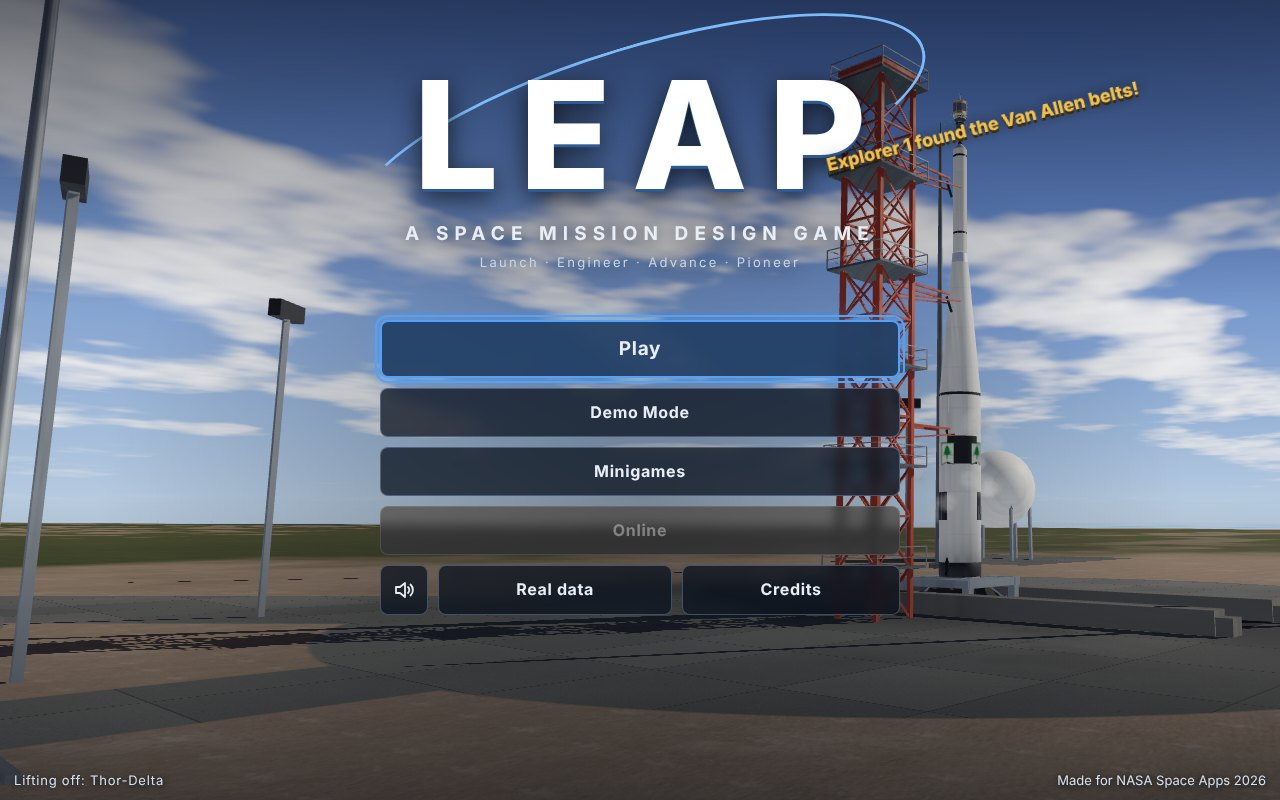
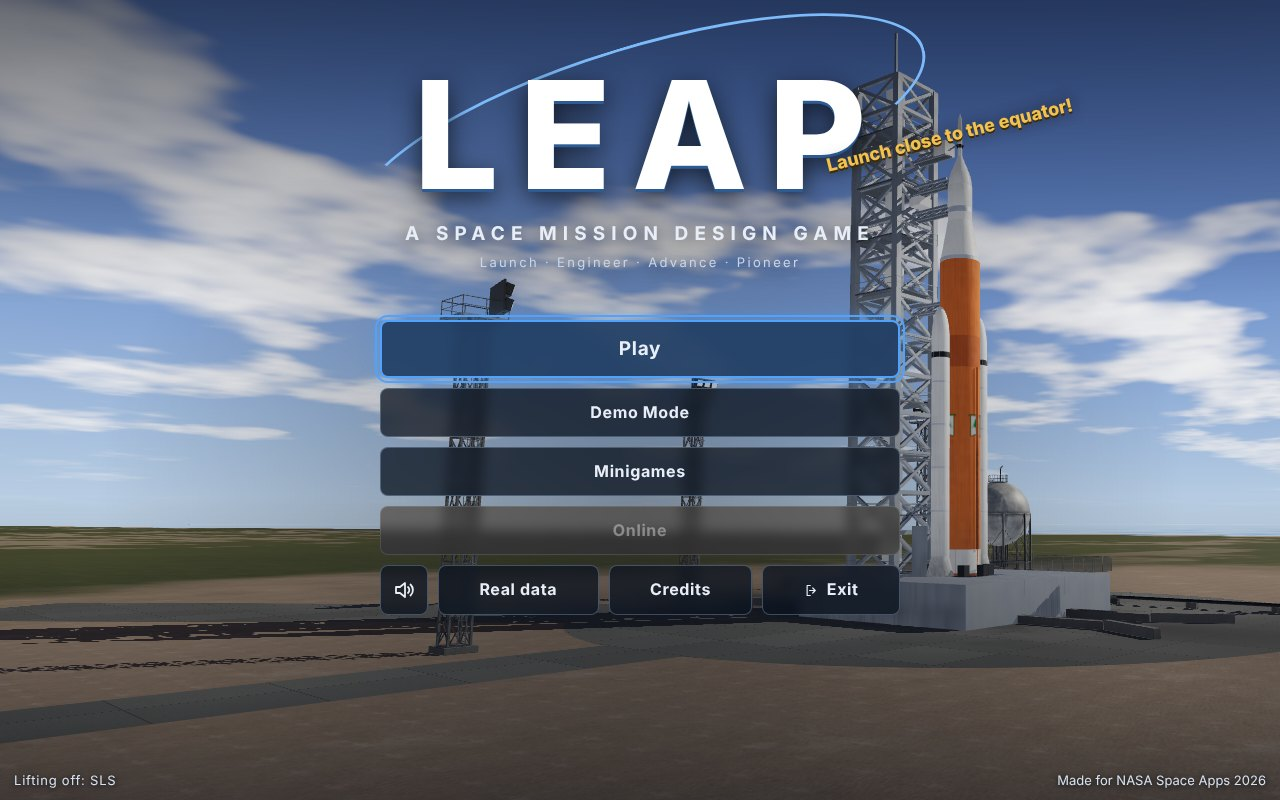
Exit button on the main menu; docs made consistent with the game
Exit opens a sheet, then asks the browser to close the tab. When the
browser keeps the tab (the usual case), the sheet says the Companies are
saved and how to stop the launcher. Checked at 1280x800 and 1024x768.

Docs: GDD (Eras 3 and Artemis, Demo Mode's four Eras, Explorer and
Mission Director names, Online switched off, save v21, Exit), submission
text, Supabase and art READMEs, AGENTS.md ticket count, README terms and
title screenshot.

Claude-Session: https://claude.ai/code/session_018cqh2fYR8rZjra5vVvQvDZ

diff --git a/src/ui/mainMenu.ts b/src/ui/mainMenu.ts
@@ -105,7 +105,7 @@ export function showMainMenu(
     b.textContent = text;
     return b;
   };
-  const iconButton = (label: string, name: 'sound') => {
+  const iconButton = (label: string, name: 'sound' | 'exit') => {
     const b = button('', 'menu-button menu-icon');
     b.setAttribute('aria-label', label);
     b.title = label;
@@ -124,9 +124,12 @@ export function showMainMenu(
   const dataButton = button(t('data.heading'));
   const creditsButton = button(t('credits.heading'));
   const soundButton = iconButton(t('sound.heading'), 'sound');
+  const exitButton = button(t('mainMenu.exit'));
+  exitButton.prepend(icon('exit'));
+  exitButton.classList.add('main-menu-exit');
   const row = document.createElement('div');
   row.className = 'main-menu-row';
-  row.append(soundButton, dataButton, creditsButton);
+  row.append(soundButton, dataButton, creditsButton, exitButton);
   actions.append(play, demo, minigames, online, row);
 
   // Demo picker, Companies, Credits, Music & Sounds and Real data open in one sheet in place of the buttons.
@@ -186,6 +189,14 @@ export function showMainMenu(
   const sound = sheet(t('sound.heading'), makeAudioControls(), titleMusic(), backButton());
   sound.classList.add('sound-view');
   const data = sheet(t('data.heading'), makeDataCredits(), backButton());
+  // Exit: browsers only let a page close a tab a script opened, so this sheet usually stays and says how to leave.
+  const exitText = (key: StringKey) => {
+    const p = document.createElement('p');
+    p.textContent = t(key);
+    return p;
+  };
+  const exitSheet = sheet(t('exit.heading'), exitText('exit.saved'), exitText('exit.tab'), exitText('exit.window'), backButton());
+  exitSheet.classList.add('exit-view');
   // Opened here already: this sheet is only for the list.
   data.querySelector('details')?.setAttribute('open', '');
 
@@ -287,7 +298,7 @@ export function showMainMenu(
     rows.find((r) => r.entry === selected)?.item.focus();
   });
 
-  const sheets = [picker, minigamesSheet, companies, credits, sound, data];
+  const sheets = [picker, minigamesSheet, companies, credits, sound, data, exitSheet];
 
   // A sheet replaces the buttons; Back or Esc returns to the button that opened it.
   let opener: HTMLButtonElement | null = null;
@@ -310,6 +321,11 @@ export function showMainMenu(
   creditsButton.addEventListener('click', () => open(credits, creditsButton));
   soundButton.addEventListener('click', () => open(sound, soundButton));
   dataButton.addEventListener('click', () => open(data, dataButton));
+  // The sheet opens first: if the browser lets the page close its tab, the tab goes; if not, the sheet says how to leave.
+  exitButton.addEventListener('click', () => {
+    open(exitSheet, exitButton);
+    window.close();
+  });
   // Esc first closes the delete question, then the sheet.
   const cancelDelete = () => { if (confirm.hidden) return false; no.click(); return true; };
 

diff --git a/src/style.css b/src/style.css
@@ -5137,3 +5137,7 @@ body.mode-explorer .report .report-anomaly p,
 body.mode-explorer .report .report-real p { font-size: 18px; }
 body.mode-explorer .report .report-reward { margin: 4px 0 0; font-size: 24px; font-weight: 700; text-align: center; color: var(--accent); }
 body.mode-explorer .report .report-outcome:not(.ok) ~ .report-reward { color: var(--text); font-size: 20px; font-weight: 600; }
+
+/* Main menu: Exit at the end of the bottom row, with its door-and-arrow icon; the sheet that says how to leave. */
+.main-menu-row .main-menu-exit { display: inline-flex; align-items: center; justify-content: center; gap: 8px; }
+.exit-view p { margin: 0 0 12px; line-height: 1.5; }

diff --git a/src/strings.ts b/src/strings.ts
@@ -18,6 +18,11 @@ export const STRINGS = {
   'mainMenu.back': 'Back',
   'mainMenu.rocket': 'Lifting off: {rocket}',
   'mainMenu.play': 'Play',
+  'mainMenu.exit': 'Exit',
+  'exit.heading': 'Exit LEAP',
+  'exit.saved': 'Thanks for playing! Your Companies are saved in this browser, ready for next time.',
+  'exit.tab': 'You can close this tab now.',
+  'exit.window': 'Started LEAP with LEAP.bat, LEAP.command or LEAP.sh? Close the window that opened too. That stops LEAP.',
   'companies.heading': 'Your Companies',
   'companies.list': 'Saved Companies',
   'companies.line': '{mode} · {difficulty} · {date}',

diff --git a/src/ui/icons.ts b/src/ui/icons.ts
@@ -7,6 +7,7 @@ const PATHS = {
   space: 'M12 9a3 3 0 1 0 0 6a3 3 0 1 0 0-6 M4.5 17.5c-2-2 1.5-7.5 6.5-11.5s9-4 10-2.5-1.5 7-6.5 11-8.5 5-10 3z',
   archive: 'M4 5h6a2 2 0 0 1 2 2v13a2 2 0 0 0-2-2H4z M20 5h-6a2 2 0 0 0-2 2v13a2 2 0 0 1 2-2h6z',
   track: 'M12 3a9 9 0 1 0 0 18a9 9 0 1 0 0-18 M12 7v5l3 2',
+  exit: 'M10 4H5v16h5 M14 8l4 4-4 4 M18 12H9',
   rocket: 'M12 2c3 3 4 7 3 12h-6c-1-5 0-9 3-12z M9 14l-3 4h4 M15 14l3 4h-4 M12 8a1 1 0 1 0 0 .01',
   // The six resource bars (Explorer shows them beside each bar's name).
   mass: 'M9 7a3 3 0 1 1 6 0 M5 9h14l2 11H3z',

diff --git a/docs/GDD.md b/docs/GDD.md
@@ -6,7 +6,7 @@
 
 ## 1. The game in one paragraph
 
-You run a small space **Company**. You build **Mines** and **Factories** on your **Site** to make **Parts**, take **Contracts**, then design a **Spacecraft**, pick a **Launch Vehicle**, check the weather and **Launch Window**, run a **Test Run**, and **Launch**. During flight you fix **Anomalies** in short mini-games. A **Mission Report** explains why it worked or failed. In the **Campaign** you relive real space history from 1958 to Artemis IV. Then **Free Play** opens with generated Contracts, leaderboards and **Weekly Challenges**.
+You run a small space **Company**. You build **Mines** and **Factories** on your **Site** to make **Parts**, take **Contracts**, then design a **Spacecraft**, pick a **Launch Vehicle**, check the weather and **Launch Window**, run a **Test Run**, and **Launch**. During flight you fix **Anomalies** in short mini-games. A **Mission Report** explains why it worked or failed. In the **Campaign** you relive real space history from 1958 to Artemis IV. Then **Free Play** opens with generated Contracts, leaderboards and **Weekly Challenges** (Online, which holds the last two, is switched off for now: §12).
 
 ## 2. Goals and audience
 
@@ -22,21 +22,21 @@ You run a small space **Company**. You build **Mines** and **Factories** on your
 |---|---|---|
 | **Campaign** | 1958 → Artemis IV through real **Milestones**. Continues into Free Play with the same Company. | ✅ Eras built in order |
 | **Free Play** | Modern Era, start anywhere on Earth, generated Contracts. Online features live here. | ✅ |
-| **Weekly Challenge** | Free Play only. Same budget, Parts list and weekly Seed for everyone. | ✅ |
+| **Weekly Challenge** | Free Play only. Same budget, Parts list and weekly Seed for everyone. | ✅ built; switched off with Online for now (§12) |
 | **Demo Mode** | One fixed demo Site, one ready save per Era. | ✅ |
 | **Sandbox** | No limits, everything unlocked. | Later |
 | **Minigames** | _Built (ticket 54)._ From the main menu, apart from any Company: choose Explorer or Mission Director and play that level's three short 2D games in a random order. Each ends on one real space fact with a reading link. | ✅ built |
 | **Team Mode** | _Built (ticket 41)._ Two to four players share one Company on one screen and pass the mouse; each role (Mission lead, Power, Communications, Science) owns its slots and signs its lines of the Design Review before the design ships. No networking. | ✅ built |
 
-**As built (ticket 21):** choose Campaign or Free Play independently of Easy/Advanced. Free Play starts on 1 January 2026, anywhere on Earth's land, with HQ level 5 and a level 1 Assembly Hall. It uses the Parts built so far and the same economy, Marks, Research, six bars, Test Run, Shipping and flight rules; Solar Cells do not need the Vanguard 1 card here. Buildings and better Marks still need money and days. Falcon 9 Rideshares replace the retired historical rockets; see §8 and `docs/research/launch-vehicles.md`.
+**As built (ticket 21):** choose Campaign or Free Play independently of Explorer/Mission Director (Easy/Advanced at the time). Free Play starts on 1 January 2026, anywhere on Earth's land, with HQ level 5 and a level 1 Assembly Hall. It uses the Parts built so far and the same economy, Marks, Research, six bars, Test Run, Shipping and flight rules; Solar Cells do not need the Vanguard 1 card here. Buildings and better Marks still need money and days. Falcon 9 Rideshares replace the retired historical rockets; see §8 and `docs/research/launch-vehicles.md`.
 
 Three generated offers stay on the board: radiation surveys, weather photography and geostationary communications relays for fictional clients. Their duration (30–90 days), orbit and reward vary; deadlines allow 240 days beyond the requested Data period. All figures are game estimates. Taking work replenishes the board; successful Contracts stay completed, missed ones can be accepted again. IDs reproduce the same terms after reload, including on old Mission Reports and Patches.
 
-After all **currently built** Campaign Milestones (through Syncom 3), the board offers **Continue in Free Play**. The same Company keeps its name, logo, place, Seed, buildings, stock, Marks, money, Research, reports, Patches and History Archive. The date jumps forward to 2026 (never backwards); pending Upgrade time is preserved. This interim endpoint moves when later Campaign Milestones are built; the planned story still ends after Artemis IV. Save v18 preserves earlier games as Campaign Companies. Online features wait for tickets 22–23.
+When the Campaign ends (any of the three Artemis IV choices, after a closing card, §6), the board offers **Continue in Free Play**. The same Company keeps its name, logo, place, Seed, buildings, stock, Marks, money, Research, reports, Patches and History Archive. The date moves to 2026 if it is earlier (never backwards); pending Upgrade time is preserved. Save v18 preserved earlier games as Campaign Companies.
 
 **Minigames (ticket 54):** a pause from building Companies, and a way in for players who want something short. Each Minigame is a 2D game of a minute or two that teaches one fact, stated after the game: in plain words in Explorer, with the real numbers in Mission Director. A fact card shows stars (3 great, 2 good, 1 finished, 0 failed), "You learned" and a link (NASA Space Place in Explorer, a NASA page in Mission Director); an end screen totals the stars, and the best stars per game are remembered on the device. Explorer: **Build Pluto** (catch rock for the core and ice for the shell, dodge gas: Pluto is a dwarf planet of rock and ice), **Rover Rescue** (drive, drill and bring samples to the lab before the battery runs low: what Mars rovers do), **Planet Parade** (order the planets from the Sun, then by size). Mission Director: **Too Hot, Too Cold** (keep four parts of a small satellite in their temperature bands for four orbits with heaters that cost power and three radiator louvers), **Square Peg, Round Hole** (build Apollo 13's carbon dioxide fix from bags, cardboard and tape), **Lost Signal** (work a loss-of-signal checklist for a probe whose antenna points 2° off Earth, as Voyager 2's did in 2023, then wait out the light time). Facts and sources: `docs/research/minigames.md`; numbers not listed there are game estimates. Minigames are not Anomalies: they never touch a Company or a Mission.
 
-**Demo Mode (ticket 24):** the main menu offers the two finished Campaign Eras on one fixed Site (Seed `K7QXM2`, Historic JPL place). Era 1 has Explorer 1 accepted and a batteries-only design; Era 2 has the earlier Milestones completed, Telstar 1 accepted, a solar-powered relay design and a Ground Station. Both have working industry, a Warehouse, spare Parts and enough money to test, change the design and ship at once. They use Easy mode and skip the tutorial, with the normal Mission rules and risks. Selecting an Era starts its prepared Company afresh; all demo saving is separate from the player's Company. The pause menu saves the current session before returning to the main menu. Later Campaign Eras need their own prepared save when built.
+**Demo Mode (ticket 24; Eras 3 and Artemis added 15 Nov):** the main menu offers every Campaign Era built, on one fixed Site (Seed `K7QXM2`, Historic JPL place): Era 1 (Explorer 1 accepted, a batteries-only design), Era 2 (the earlier Milestones completed, Telstar 1 accepted, a solar-powered relay design and a Ground Station), Era 3 (Apollo 11's science package, flying on Saturn V) and the Artemis Era (a 12U CubeSat on Artemis II, then the Artemis III and IV choices). Each has working industry, a Warehouse, spare Parts and enough money to test, change the design and ship at once. They use Explorer mode and skip the tutorial, with the normal Mission rules and risks. Selecting an Era starts its prepared Company afresh; all demo saving is separate from the player's Company. The pause menu saves the current session before returning to the main menu. An Era built later needs its own prepared save (`DEMO_ERAS` in `src/game/demo.ts`).
 
 ## 4. Starting the game
 
@@ -173,9 +173,9 @@ Verified dates, rockets and sources: [`docs/research/milestones.md`](research/mi
 - **Era 1 numbers** (game estimates in `src/game/balance.ts`): the tutorial design (Small Bus, batteries only, Large Battery, Simple Antenna, spin, radiation detector) weighs 11.5 kg and lasts about 33 days. A Small Battery runs out on day 16; a Medium Bus is too heavy for Juno I. Solar Cells stay locked until the Vanguard 1 card, after Explorer 1.
 - **TIROS-1 numbers** (game estimates): the TV Camera weighs 4 kg, makes 40 kB a day and uses 1.4 W. Solar Cells give 3 W in sunlight, 1.8 W on average over an orbit, a little less than the camera and antenna use (2 W). So batteries alone last 15 days, a Small Battery with Solar Cells about 75 of the 78 days (the Test Run shows an estimated success in between), and a Large Battery with Solar Cells all of them. Better solar cells or Low-power electronics let the Small Battery do. The camera, solar cells and battery don't fit a Small Bus, and a Medium Bus design (18–21 kg) is too heavy for Juno I, so TIROS-1 needs Thor-Able. The 3D model shows two TV cameras and a tape recorder on a deck in the nose.
 - **The 3D Spacecraft** sits against stars with the real Earth below: true continents from Natural Earth, coloured with NASA Blue Marble's real land colours, on a smooth globe with rounded coastlines, soft clouds, a glint of sunlight on the sea and a glowing atmosphere (the same Earth in the 3D Launch and the Space view; it stays smooth close up), turning slowly west to east. It starts over the Americas (Explorer 1 launched from Cape Canaveral) and is drawn at its true apparent size from 13,000 km up, so whole continents fit (from Explorer 1's own height it would fill half the sky). It stays in the lower part of the view however the camera turns. Details: [`docs/research/earth-map.md`](research/earth-map.md). Every Part has visible detail so choices read at a glance: the Small Bus is a slim striped cylinder with seams, flanges and a hatch; the Medium Bus is an octagon in gold foil with a finned white radiator and corner rails; batteries are rows of cells in a strut cage; solar cells are framed panels with a cell grid; the Simple Antenna is four hinged whips plus slot antennas; Spin adds balance weights and spin-up nozzles, and the model really spins; the radiation detector has vents and a window onto its Geiger tube under the nose cone. A launch adapter ring sits at the bottom.
-- **Easy mode:** fewer, simpler Parts, and placement is automatic. **Advanced mode:** more Parts and more realistic numbers. **Manual placement** (panels facing the Sun, camera facing Earth) is **Later**, in Advanced only.
+- **Explorer:** fewer, simpler Parts, and placement is automatic. **Mission Director:** more Parts and more realistic numbers. **Manual placement** (panels facing the Sun, camera facing Earth) is **Later**, in Mission Director only.
 
-**Modes (ticket 20):** choose Easy (default) or Advanced when starting the Company; the pause menu's Settings keeps the choice visible. It stays fixed for that Company. Easy keeps the original Part set and rounded labels. Advanced adds a Medium Battery (4.2 kg, 420 Wh) and Low-power Antenna (0.8 kg, 0.14 W, 24 kB/day), shows up to two decimals and battery Wh/kg, and uses the same six resources and flight rules. The extra choices trade mass and Power against Communications. Their historical basis and game estimates are separated in `docs/research/spacecraft-parts.md`. Earlier saves become Easy and keep their game. Factories and the Market follow the same Part set as the Mission Designer.
+**Modes (ticket 20; renamed Explorer and Mission Director by ticket 53, below):** choose Easy (default) or Advanced when starting the Company; the pause menu's Settings keeps the choice visible. It stays fixed for that Company. Easy keeps the original Part set and rounded labels. Advanced adds a Medium Battery (4.2 kg, 420 Wh) and Low-power Antenna (0.8 kg, 0.14 W, 24 kB/day), shows up to two decimals and battery Wh/kg, and uses the same six resources and flight rules. The extra choices trade mass and Power against Communications. Their historical basis and game estimates are separated in `docs/research/spacecraft-parts.md`. Earlier saves become Easy and keep their game. Factories and the Market follow the same Part set as the Mission Designer.
 
 **Game modes (ticket 53, 15 Nov 2026):** Easy and Advanced are now shown as **Explorer** ("Great for ages 10 and up") and **Mission Director** ("Real numbers and a real budget"). Still one choice at Company setup; the same physics underneath, so both teach the same trade-offs and the game is balanced once.
 - **Explorer** changes how things are shown. The six bars have an icon, a word and ✓/! instead of numbers and units; option tiles show three pips per stat. Money, days, dates, the countdown and counts stay. A **ghost preview** (both modes) shows on every bar how it would change if the Part under the pointer were chosen. Long texts have a short variant (`<key>.short` in `strings.ts`). The Launch planner has four steps: Rocket ("Can carry it" / "Too heavy", with the Contract's "who needs it" line on top), Launch Site (the best one marked "Best choice", one line why), Weather (wait or launch now, the total price; no Launch Insurance, no Ground Tests) and Launch (a checklist of ticks and crosses built from the Design Review; a Ground Station warning when the Data can't get home). Test Run and Mission Report use words ("The battery ran out about halfway through the Mission"), graphs without axis numbers. The Explorer Mission Report is short: the result and the reward, the new patch, what happened (ticks and crosses), one thing to try next time, one line on any trouble in space, and the real Spacecraft without a table. "Learn more" links go to NASA Space Place or NASA's K-4 pages on the same topic, or are hidden (`docs/research/kids-links.md`); Credits keep every link. Bigger UI under `body.mode-explorer`: 18 px text, 44 px buttons, words on icon buttons, blue/orange with ✓/! marks instead of green/red. Rules: a failed Mission refunds its Rideshare and Shipping once per Contract; Mines dig ×1.5 and Shipping takes half the days (game estimates).
@@ -283,6 +283,8 @@ Verified dates, rockets and sources: [`docs/research/milestones.md`](research/mi
 
 ## 12. Online (Free Play)
 
+**Switched off for now (15 Nov, ticket 53):** the main menu's Online button is greyed out with "Coming soon" (so is the one in the Free Play pause menu), so cloud saves, leaderboards and the Weekly Challenge can't be reached. Everything below is built. Before Online comes back, rebuild and redeploy `leap-online` (`npm run build:online`): its bundled save validator must accept save v21.
+
 - **Anonymous accounts:** a nickname (NASA-themed generator with 🎲 re-roll, or the player's own, filtered) plus a **secret recovery code** to continue on another computer. No email, no password, no personal data.
 - **Hackathon:** leaderboards (Company value, Missions completed, Reputation, Research), **Weekly Challenge**, shareable Seeds, cloud saves.
 - **Later:** visiting other Companies' Sites (with their logo), preset messages ("Can you send 500 titanium?"), sending resources, cooperative missions. **No chat.**
@@ -290,7 +292,7 @@ Verified dates, rockets and sources: [`docs/research/milestones.md`](research/mi
 
 Ticket 22 adds **Online** to the main menu and Free Play pause menu, using the existing panels. Create a nickname or recover an account before starting a Company. The generated secret code is the account's key; keep a copy. No email, password or personal identity is required (ADR-0004).
 
-**Save to cloud** stores one Free Play Company per account and updates its leaderboard scores. Saving and loading are manual. **Load cloud Company** asks before replacing this browser's Company; network failures keep the local save. Simultaneous writes are rejected. Campaign and Demo Mode stay local, with the existing separate demo slot. The game's save format is now v19 (bought Plots, ticket 30); the backend must be redeployed whenever the save format changes. Ticket 33's tested designs are an optional v19 field, so they needed no redeploy.
+**Save to cloud** stores one Free Play Company per account and updates its leaderboard scores. Saving and loading are manual. **Load cloud Company** asks before replacing this browser's Company; network failures keep the local save. Simultaneous writes are rejected. Campaign and Demo Mode stay local, with the existing separate demo slot. The save format was v19 then (bought Plots, ticket 30; v21 now); the backend must be redeployed whenever the save format changes. Ticket 33's tested designs are an optional v19 field, so they needed no redeploy.
 
 The four leaderboards show the top 20 saved Companies by one measure at a time. **Company value** is money + Raw Materials at making value + Parts at making cost + buildings at their build price and completed Upgrade cost; the HQ counts at its base value because its level marks the Era. Part Marks do not change their making value; Spacecraft in flight and pending Upgrades are not counted. **Missions completed** counts fulfilled Contracts. **Reputation** adds 10 per successful Mission Report and subtracts 5 per failed one, with a floor of zero. Missed-deadline penalties remain a later fix. **Research** counts all Research Points earned, including those spent. These are game estimates. Scores are calculated on the backend from player saves; those saves remain editable, so this is a casual leaderboard rather than an authoritative competition.
 
@@ -358,7 +360,9 @@ The challenge expects NASA data to be used visibly; the judging guide's Relevanc
 
 ## 15. Screens
 
-Main menu · New game (mode, Company, logo, globe, Seed) · Site view (money, Raw Materials, date, speed) · Build menu · Contracts board · Mission Designer · Launch planner (vehicle, site, weather, window, insurance) · Test Run · Flight · Mission Report · Space view · Research · History Archive · Patch gallery · Leaderboards and Weekly Challenge · Pause menu (Esc: Seed, Settings) · Credits
+Main menu (Play, Demo Mode, Minigames, Online, Music & Sounds, Real data, Credits, Exit) · Your Companies · New game (Campaign or Free Play, Explorer or Mission Director, Company, logo, globe, Seed) · Site view (money, Raw Materials, date, speed) · Build menu · Contracts board · Mission Designer · Launch planner (vehicle, site, weather, window, insurance) · Test Run · Flight · Mission Report · Space view · Research · History Archive · Patch gallery · Leaderboards and Weekly Challenge (Online, switched off for now) · Minigames · Pause menu (Esc: Seed, Settings, Main menu) · Credits
+
+**Exit (15 Nov):** the last button on the main menu's bottom row. It asks the browser to close the tab; browsers only let a page close a tab that a script opened, so usually a short sheet appears instead: the Companies are saved in this browser, the tab can be closed now, and the window that LEAP.bat, LEAP.command or LEAP.sh opened must be closed too to stop LEAP. Back or Esc returns to the menu. The pause menu keeps **Main menu**; nothing in a Company exits the game directly.
 
 **Credits (ticket 28):** a main-menu view, closed with Back or Esc. It shows the team (for now the placeholder "Team Artemis-IV"; the team adds its names before submission), that code and art were written with AI coding agents and reviewed by the team, the challenge link and a not-made-or-endorsed-by-NASA line. Then every real dataset (the same list as Real data), each Real History photo credit, every reading source (missions, rockets, Launch Sites, science), music and sound, and the software with its licence. No official logo until organisers confirm (§11).
 

diff --git a/README.md b/README.md
@@ -1,6 +1,6 @@
 # LEAP: A Space Mission Design Game
 
-![The LEAP title screen: the main menu in front of a Thor-Delta rocket on its pad](screenshots/game%20screenshots/title.jpg)
+![The LEAP title screen: the main menu in front of SLS on its pad](screenshots/game%20screenshots/title.jpg)
 
 Run a small space company. Mine metals, build Parts, design the spacecraft, pick the rocket, check the weather and launch. Along the way you fly the real missions of space history, from Explorer 1 in 1958 to the planned Artemis IV Moon landing.
 
@@ -26,7 +26,7 @@ Take a Contract, then choose a Part for each slot: Bus, Power, Battery, Comms, P
 
 ![The Launch planner for Apollo 11's science package: Saturn V picked from the row of rockets, standing on its pad](screenshots/game%20screenshots/planner.jpg)
 
-Choose a rocket that can lift it and a Launch Site (nearer the equator is better), check the weather and book the launch. In Mission Director you also plan the Ground Stations that will hear it, and can pay for Ground Tests and Launch Insurance. Bad weather on the day means a Scrub.
+Choose a rocket that can lift it and a Launch Site (nearer the equator is better), check the weather and book the launch. In Mission Director mode you also plan the Ground Stations that will hear it, and can pay for Ground Tests and Launch Insurance. Bad weather on the day means a Scrub.
 
 ### Launch and fly
 
@@ -47,18 +47,18 @@ The report says what worked and what didn't, and why. It compares your spacecraf
 - **Campaign.** Space history in order. Era 1: Explorer 1 and TIROS-1. Era 2: Telstar 1 and Syncom 3. Era 3: Apollo 11, where you build the experiments the crew set up on the Moon. The Artemis Era: a CubeSat on Artemis II, then you choose how your Company helps Artemis III and IV. After that, the same Company carries on in Free Play.
 - **Free Play.** Start anywhere on Earth in 2026, with made-up Contracts that each say who needs the Data and why.
 - **Demo Mode.** A ready Company for each Era (Explorer 1, Telstar 1, Apollo 11, Artemis II), with the factories running and the design done, so you can go straight to the launch.
-- **Minigames.** Short 2D games, apart from any Company, each ending with a real fact. For Explorer: Build Pluto, Rover Rescue and Planet Parade. For Mission Director: Too Hot, Too Cold (keep a satellite's parts at safe temperatures), Square Peg, Round Hole (Apollo 13's carbon dioxide fix) and Lost Signal (Voyager 2's lost contact in 2023).
+- **Minigames.** Short 2D games, apart from any Company, each ending with a real fact. In Explorer mode: Build Pluto, Rover Rescue and Planet Parade. In Mission Director mode: Too Hot, Too Cold (keep a satellite's parts at safe temperatures), Square Peg, Round Hole (Apollo 13's carbon dioxide fix) and Lost Signal (Voyager 2's lost contact in 2023).
 - **Team Mode.** Two to four players share one Company on one computer. The four roles (Mission lead, Power, Communications, Science) are shared out, each owns its part of the design, and it ships only when every role has signed off.
 
 <p>
 <img src="screenshots/game%20screenshots/moon-apollo-11.jpg" width="49%" alt="Apollo 11 on the Moon: the Lunar Module and two astronauts setting up the science package">
-<img src="screenshots/game%20screenshots/minigame.jpg" width="49%" alt="Lost Signal, a Mission Director Minigame: work the checklist to win back a probe whose antenna points 2° away from Earth">
+<img src="screenshots/game%20screenshots/minigame.jpg" width="49%" alt="Lost Signal, a Mission Director mode Minigame: work the checklist to win back a probe whose antenna points 2° away from Earth">
 </p>
 
-There are two levels. A Company keeps the one it started with (an Explorer Company can switch up to Mission Director once, from the pause menu):
+There are two game modes. A Company keeps the one it started with, though an Explorer mode Company can switch to Mission Director mode once, from the pause menu:
 
-- **Explorer:** pictures and plain words instead of numbers, a simpler Launch planner and links to NASA pages written for young readers.
-- **Mission Director:** real numbers and a real budget, every Part and planning step. Offers expire, and repeat Test Runs cost money.
+- **Explorer mode:** pictures and plain words instead of numbers, a simpler Launch planner and links to NASA pages written for young readers.
+- **Mission Director mode:** real numbers and a real budget, every Part and planning step. Offers expire, and repeat Test Runs cost money.
 
 ![Starting a Company: name, Campaign or Free Play, Explorer or Mission Director, a logo, and a real place on the globe](screenshots/game%20screenshots/new-company.jpg)
 
@@ -74,7 +74,7 @@ Download the repository (Code → Download ZIP), unzip it, and keep the folder t
 
 The first start needs internet and takes a few minutes. The launcher downloads its own copy of [Node.js](https://nodejs.org/) into this folder, checks it, and installs the game's packages. You don't need to install anything or have administrator rights. Later starts are quick.
 
-LEAP opens in your browser at [http://localhost:5173](http://localhost:5173). **Keep the launcher window open while you play.** Close it, or press **Ctrl+C** in it, to quit. Closing the browser tab does not stop LEAP; run the launcher again to get the tab back.
+LEAP opens in your browser at [http://localhost:5173](http://localhost:5173). **Keep the launcher window open while you play.** To quit, press **Exit** on the main menu, close the tab, then close the launcher window (or press **Ctrl+C** in it). Closing only the browser tab does not stop LEAP; run the launcher again to get the tab back.
 
 Your Companies are saved in that browser. Use the same browser and address to find them again.
 

diff --git a/docs/submission.md b/docs/submission.md
@@ -22,16 +22,16 @@ The hosted game: GitHub Pages at `https://valgyrie.github.io/NASA-Space-Mission-
 
 ## Project details
 
-**What it does.** Players grow a Company (about 40% of play) and design, launch and fly Missions (about 60%). Two historical Eras (1958–1964) and a modern Free Play mode. Easy and Advanced Part sets. Demo Mode starts a ready Company in one click.
+**What it does.** Players grow a Company (about 40% of play) and design, launch and fly Missions (about 60%). A Campaign through space history, from Explorer 1 (1958) through Apollo 11 to the Artemis Moon missions, then a modern Free Play mode. Two game modes: Explorer for young players (pictures and words) and Mission Director (real numbers and a real budget). Demo Mode starts a ready Company for each Era in one click. Minigames teach one real fact each in a minute or two.
 
 **How it works.**
 - The **Mission Designer** shows six live bars: Mass, Power, Budget, Data, Communications and Time.
 - The **Launch planner** groups the Mission under NASA's four Segments: who uses the Data (User), the Spacecraft (Space), the Ground Stations (Ground) and the rocket and launch site (Launch).
-- A free, deterministic **Test Run** estimates the chance of success before money is spent.
+- A deterministic **Test Run** estimates the chance of success before the Spacecraft ships (the first one of each design is free).
 - The Launch is shown in 3D; Anomalies (point the antenna, a stuck solar panel, an eclipse) are short mini-games that follow from the design's weak points.
 - The **Mission Report** says what worked and why, with the design's own numbers.
 - Real launch weather from NASA POWER can scrub a Launch; Earth's spin at each launch site changes what a rocket can lift.
-- Online (optional, anonymous): cloud saves, leaderboards and a Weekly Challenge with the same budget and Parts for everyone. No chat, no personal data.
+- Online (optional, anonymous; built but switched off for now): cloud saves, leaderboards and a Weekly Challenge with the same budget and Parts for everyone. No chat, no personal data.
 
 **Benefits.** Easy to start from about age 10, with depth for adults. Every number has a reason the player can read; every real mission links to its source.
 
@@ -46,7 +46,7 @@ The hosted game: GitHub Pages at `https://valgyrie.github.io/NASA-Space-Mission-
 - **NASA Black Marble** and **VIIRS true-colour pictures**, also via NASA GIBS: city lights on the night side of the globe, and the clouds of one real day (10 September 2024). <https://blackmarble.gsfc.nasa.gov/> · <https://www.earthdata.nasa.gov/data/instruments/viirs>
 - **NASA Image and Video Library**: the photos on Real History cards, each credited. <https://images.nasa.gov/>
 - **Design and Develop Science Missions** (NASA Small Spacecraft institute, 2025; an official challenge Resource): the four mission Segments in the Launch planner and Mission Report. <https://www.nasa.gov/wp-content/uploads/2025/04/250323-design-and-develop-science-mission.pdf>
-- **NASA history and science pages** for the facts behind each Milestone (Explorer 1, TIROS-1, Telstar 1, Syncom 3) and the orbits: cited in `docs/research/`.
+- **NASA history and science pages** for the facts behind each Milestone (Explorer 1, TIROS-1, Telstar 1, Syncom 3, Apollo 11, Artemis II–IV), the Moon sequences and the orbits: cited in `docs/research/`.
 
 ## Space Agency Partner data
 

diff --git a/screenshots/game screenshots/README.md b/screenshots/game screenshots/README.md
@@ -4,7 +4,8 @@ The game as it is now, one picture per main screen. The main [README](../../READ
 
 | Picture | What it shows | How to get there |
 |---|---|---|
-| [title.jpg](title.jpg) | The title screen and main menu, a Thor-Delta waiting on the pad behind it | Open the game |
+| [title.jpg](title.jpg) | The title screen and main menu, SLS waiting on the pad behind it | Open the game |
+| [exit.jpg](exit.jpg) | Exit: the browser kept the tab open, so the sheet says the Companies are saved and how to stop LEAP | Main menu → Exit |
 | [new-company.jpg](new-company.jpg) | Starting a Company: name, Seed, a real place on the globe, Campaign or Free Play, Explorer or Mission Director | Main menu → Play (with no saved Company), or Play → Create new Company |
 | [site.jpg](site.jpg) | The Demo Site in January 1958: Mines and factories on the coast, Raw Materials and money on top, the Build menu below | Main menu → Demo Mode → Era 1 |
 | [designer.jpg](designer.jpg) | The Mission Designer's Check step for Explorer 1, every bar in the green, in Explorer mode | Same → Mission Designer → last step |
@@ -13,6 +14,6 @@ The game as it is now, one picture per main screen. The main [README](../../READ
 | [moon-apollo-11.jpg](moon-apollo-11.jpg) | Apollo 11 on the Moon: the crew sets up the science package beside the Lunar Module | Demo Mode → Era 3 → ship and launch; the Moon sequence after the climb |
 | [anomaly.jpg](anomaly.jpg) | Explorer 1 in orbit: the "Point the antenna" Anomaly, the first one in a game, which can't be skipped | Demo Mode → Era 1 → ship, then Launch; it comes during the Mission days |
 | [report.jpg](report.jpg) | The Mission Report for Explorer 1 in Explorer mode, scrolled down: the first Mission Patch, what happened, the trouble in space, the real Explorer 1 | Demo Mode → Era 1 → ship, Launch, play the Anomaly, wait for the Mission to end (or Skip to the report) |
-| [minigame.jpg](minigame.jpg) | Lost Signal, a Mission Director Minigame, at its start: the loss-of-signal checklist, the receiver and the Deep Space Network | Main menu → Minigames → Mission Director → Start (the order of the three games is random) |
+| [minigame.jpg](minigame.jpg) | Lost Signal, a Mission Director mode Minigame, at its start: the loss-of-signal checklist, the receiver and the Deep Space Network | Main menu → Minigames → Mission Director → Start (the order of the three games is random) |
 
 `launch-sls.jpg` and `moon-apollo-11.jpg` were taken on 15 Nov 2026 for the project description (`docs/submission/figures/`); the rest were taken the same evening on `main` at e1fef1b. Taken at 1280×800 in a headless browser with software rendering, so they show the look, not the frame rate.

diff --git a/PROGRESS.md b/PROGRESS.md
@@ -4,6 +4,12 @@
 
 **Goal:** a 2.5D space-company tycoon for NASA Space Apps 2026 (hackathon Nov 14–15). See `docs/GDD.md`.
 
+**README, Exit button and docs pass (15 Nov, late): merged into `main` at the user's request.**
+- README rewritten for players: what you do (with screenshots), ways to play, run it, controls, developers, credits. Ten current screenshots in `screenshots/game screenshots/` (its README says how to reach each screen).
+- **Exit** on the main menu's bottom row (`src/ui/mainMenu.ts`, `exit.*` strings). It opens a sheet first, then asks the browser to close the tab; browsers only let a page close a tab a script opened, so players normally see the sheet: Companies are saved here, close the tab, close the launcher window to stop LEAP. Checked at 1280×800 and 1024×768 (Esc and Back). GDD §15.
+- Docs made consistent with the game: GDD §1/§3/§7/§12/§15 (Eras 3 and Artemis, Demo Mode's four Eras, Explorer/Mission Director names, Online switched off, save v21), submission text, Supabase README, art README (`era-5.webp` also shows on the Artemis Era card; Era 3 has no picture), research and tickets indexes, AGENTS.md ticket count.
+- 648 tests and type checks pass.
+
 **Minigames (15 Nov, night): done, play-tested and merged into `main`. START HERE for this work.** Ticket `docs/tickets/54-minigames.md`, facts `docs/research/minigames.md`.
 - A new main-menu mode: choose Explorer or Mission Director, play three short 2D games in a random order, each followed by the real fact it teaches (child-friendly in Explorer), then an end screen with stars.
 - Done: the shell and the three Explorer games (Build Pluto, Rover Rescue, Planet Parade), played to the end at 1280×800 and 1024×768; Mission Director's Too Hot, Too Cold and Square Peg, Round Hole.
@@ -99,6 +105,7 @@
 
 ## Log
 
+- 2026-11-15: README rewrite with current screenshots; Exit button on the main menu; docs made consistent with the game. 648 tests pass. Merged into `main`.
 - 2026-11-15: Minigames (ticket 54) on branch `minigames`: shell, three Explorer games and three Mission Director games; checkpointed when the user stopped the work (Lost Signal not yet played to a win). 648 tests pass.
 
 - 2026-11-15: Game modes on branch `game-modes` (ticket 53): Explorer and Mission Director on one rule set, kids' NASA links, save v21; Online greyed out; Back/Resume always in reach. 588 tests, type checks and browser checks of both modes pass. Merged into `main` the same evening at the user's request.

diff --git a/AGENTS.md b/AGENTS.md
@@ -6,7 +6,7 @@ Instructions for any AI coding agent working on this repo (Claude Code reads it 
 
 **LEAP: A Space Mission Design Game** (Launch · Engineer · Advance · Pioneer), a 2.5D space-company tycoon for the **NASA Space Apps 2026** challenge "Space Mission Design Game". Players grow a Company (~40% tycoon) and design, launch and fly Missions that teach real space-mission trade-offs (~60%). Audience: everyone from about age 10, so easy to start, with depth for adults. Stack: TypeScript, Vite, Three.js, HTML/CSS UI, Supabase (ADR-0001).
 
-- **Phase:** building, one ticket at a time (48 tickets in `docs/tickets/`, ✅ marks the finished ones in its README). The FAQ bars starting early; Space Apps support allowed this team to (2026-11-13), and the submission must disclose it (ticket 28). Official Resources and rules (Nov 13): `docs/challenge.md`. Hackathon: Nov 14–15, 2026.
+- **Phase:** building, one ticket at a time (54 tickets in `docs/tickets/`, ✅ marks the finished ones in its README). The FAQ bars starting early; Space Apps support allowed this team to (2026-11-13), and the submission must disclose it (ticket 28). Official Resources and rules (Nov 13): `docs/challenge.md`. Hackathon: Nov 14–15, 2026.
 - **Owner:** the team reviews and tests; agents write all code and art.
 
 ## Start of every session

diff --git a/docs/art/README.md b/docs/art/README.md
@@ -1,6 +1,6 @@
 # Era illustrations
 
-> **Note (15 Nov 2026):** the game itself now has a realistic look (ADR-0005), not the low-poly look this guide describes. The three Era pictures stay. New prompts should match the new look (a real-looking place, still clearly an illustration, not a photo); the prompts below have not been rewritten.
+> **Note (15 Nov 2026):** the game itself now has a realistic look (ADR-0005), not the low-poly look this guide describes. The three Era pictures stay. Since the Eras demo (15 Nov), Era 5 in the code is the Artemis Era, so `era-5.webp` (made as the Free Play picture) shows on both the Artemis Era card and the Free Play card; its caption fits both. Era 3 (Apollo 11) has no picture yet, so its card shows text only (`era.3.alt` is ready for one). New prompts should match the new look (a real-looking place, still clearly an illustration, not a photo); the prompts below have not been rewritten.
 >
 > The 3D models' textures and the Earth's photos are listed with author and licence in `assets-terrain.md`, `assets-buildings.md`, `assets-launch.md`, `assets-nature.md`, `assets-space.md` and `assets-moon.md` (the Moon, its craft and the caption facts) in this folder.
 

diff --git a/CHECKLIST.md b/CHECKLIST.md
@@ -106,6 +106,7 @@ Tick an item only after it works in the game. Details for each item are in [`doc
   - [x] Launch planner as a showcase: the rocket on its pad in 3D behind everything, one step at a time with tiles or cards and a pager, costs bottom-left, Test Run and Ship bottom-right
   - [x] Mission Designer as a showcase: the Spacecraft large in the middle, picture tiles per option, a pager through the slots ending in Check, resources bottom-left, Plan the Launch bottom-right; Parts slide into place
 - [x] Title screen → main menu with live 3D background; loading screens with sourced tips
+- [x] Exit on the main menu: closes the tab where the browser allows it, otherwise says the Companies are saved and how to stop LEAP (1280×800 and 1024×768, Esc and Back, 15 Nov)
 - [x] Real NASA photos (credited) on Real History cards
 - [x] Era illustrations: style guide + prompts, then team generates them (ticket 29, after the NASA Resources). All three in the game, made from game screenshots, watermarked
 
